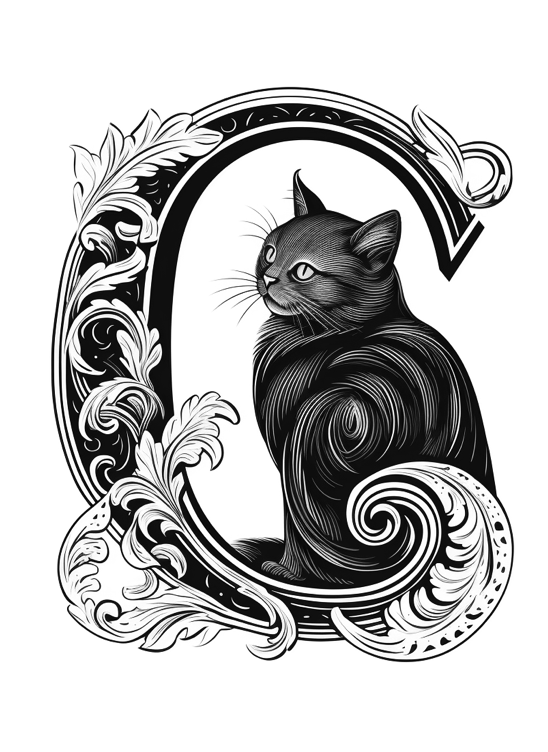
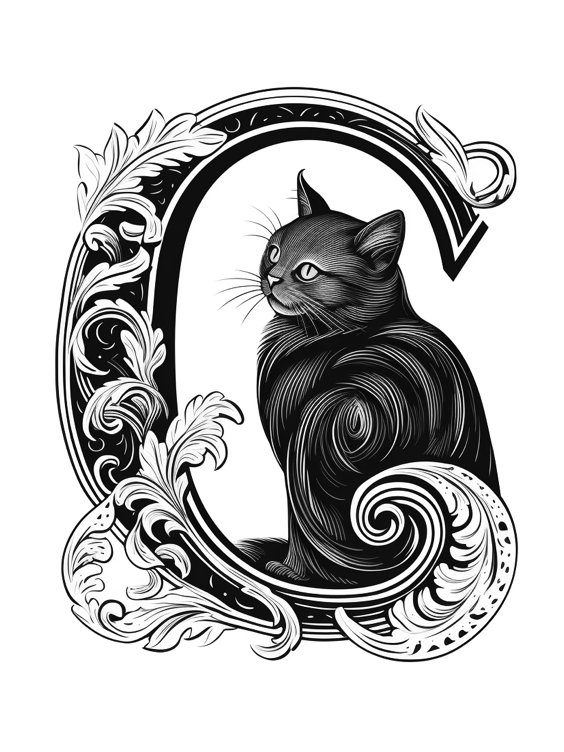
Adjustments to dropcats (C light)

Changed region(s): [[0.0931, 0.0918, 0.9617, 0.887]]

diff --git a/js/head-GENERATED.js b/js/head-GENERATED.js
@@ -3680,16 +3680,16 @@ GW.assetVersions = {
 	"/static/font/drop-cap/dropcat/light/B-6-small-2x.png": "1698270093",
 	"/static/font/drop-cap/dropcat/light/B-7-small-1x.png": "1698270093",
 	"/static/font/drop-cap/dropcat/light/B-7-small-2x.png": "1698270093",
-	"/static/font/drop-cap/dropcat/light/C-1-small-1x.png": "1697741351",
-	"/static/font/drop-cap/dropcat/light/C-1-small-2x.png": "1697741351",
+	"/static/font/drop-cap/dropcat/light/C-1-small-1x.png": "1698285686",
+	"/static/font/drop-cap/dropcat/light/C-1-small-2x.png": "1698285686",
 	"/static/font/drop-cap/dropcat/light/C-2-small-1x.png": "1697741351",
 	"/static/font/drop-cap/dropcat/light/C-2-small-2x.png": "1697741350",
 	"/static/font/drop-cap/dropcat/light/C-3-small-1x.png": "1697741350",
 	"/static/font/drop-cap/dropcat/light/C-3-small-2x.png": "1697741351",
 	"/static/font/drop-cap/dropcat/light/C-4-small-1x.png": "1698101189",
 	"/static/font/drop-cap/dropcat/light/C-4-small-2x.png": "1698101189",
-	"/static/font/drop-cap/dropcat/light/C-5-small-1x.png": "1697741351",
-	"/static/font/drop-cap/dropcat/light/C-5-small-2x.png": "1697741351",
+	"/static/font/drop-cap/dropcat/light/C-5-small-1x.png": "1698285686",
+	"/static/font/drop-cap/dropcat/light/C-5-small-2x.png": "1698285686",
 	"/static/font/drop-cap/dropcat/light/G-1-small-1x.png": "1698285109",
 	"/static/font/drop-cap/dropcat/light/G-1-small-2x.png": "1698285109",
 	"/static/font/drop-cap/dropcat/light/G-10-small-1x.png": "1698285108",

diff --git a/js/asset-versions-GENERATED.js b/js/asset-versions-GENERATED.js
@@ -114,16 +114,16 @@ GW.assetVersions = {
 	"/static/font/drop-cap/dropcat/light/B-6-small-2x.png": "1698270093",
 	"/static/font/drop-cap/dropcat/light/B-7-small-1x.png": "1698270093",
 	"/static/font/drop-cap/dropcat/light/B-7-small-2x.png": "1698270093",
-	"/static/font/drop-cap/dropcat/light/C-1-small-1x.png": "1697741351",
-	"/static/font/drop-cap/dropcat/light/C-1-small-2x.png": "1697741351",
+	"/static/font/drop-cap/dropcat/light/C-1-small-1x.png": "1698285686",
+	"/static/font/drop-cap/dropcat/light/C-1-small-2x.png": "1698285686",
 	"/static/font/drop-cap/dropcat/light/C-2-small-1x.png": "1697741351",
 	"/static/font/drop-cap/dropcat/light/C-2-small-2x.png": "1697741350",
 	"/static/font/drop-cap/dropcat/light/C-3-small-1x.png": "1697741350",
 	"/static/font/drop-cap/dropcat/light/C-3-small-2x.png": "1697741351",
 	"/static/font/drop-cap/dropcat/light/C-4-small-1x.png": "1698101189",
 	"/static/font/drop-cap/dropcat/light/C-4-small-2x.png": "1698101189",
-	"/static/font/drop-cap/dropcat/light/C-5-small-1x.png": "1697741351",
-	"/static/font/drop-cap/dropcat/light/C-5-small-2x.png": "1697741351",
+	"/static/font/drop-cap/dropcat/light/C-5-small-1x.png": "1698285686",
+	"/static/font/drop-cap/dropcat/light/C-5-small-2x.png": "1698285686",
 	"/static/font/drop-cap/dropcat/light/G-1-small-1x.png": "1698285109",
 	"/static/font/drop-cap/dropcat/light/G-1-small-2x.png": "1698285109",
 	"/static/font/drop-cap/dropcat/light/G-10-small-1x.png": "1698285108",

diff --git a/include/inlined-head.html b/include/inlined-head.html
@@ -912,5 +912,5 @@ a[data-link-icon-type*='svg'] .link-icon-hook::after {
 }
 </style>
 <link rel="stylesheet" href="/static/css/head.css?v=1698263740">
-<script src="/static/js/head.js?v=1698285223"></script>
+<script src="/static/js/head.js?v=1698285715"></script>
 <link rel="preload" href="/static/img/icon/icons.svg?v=1698021605" as="image">
